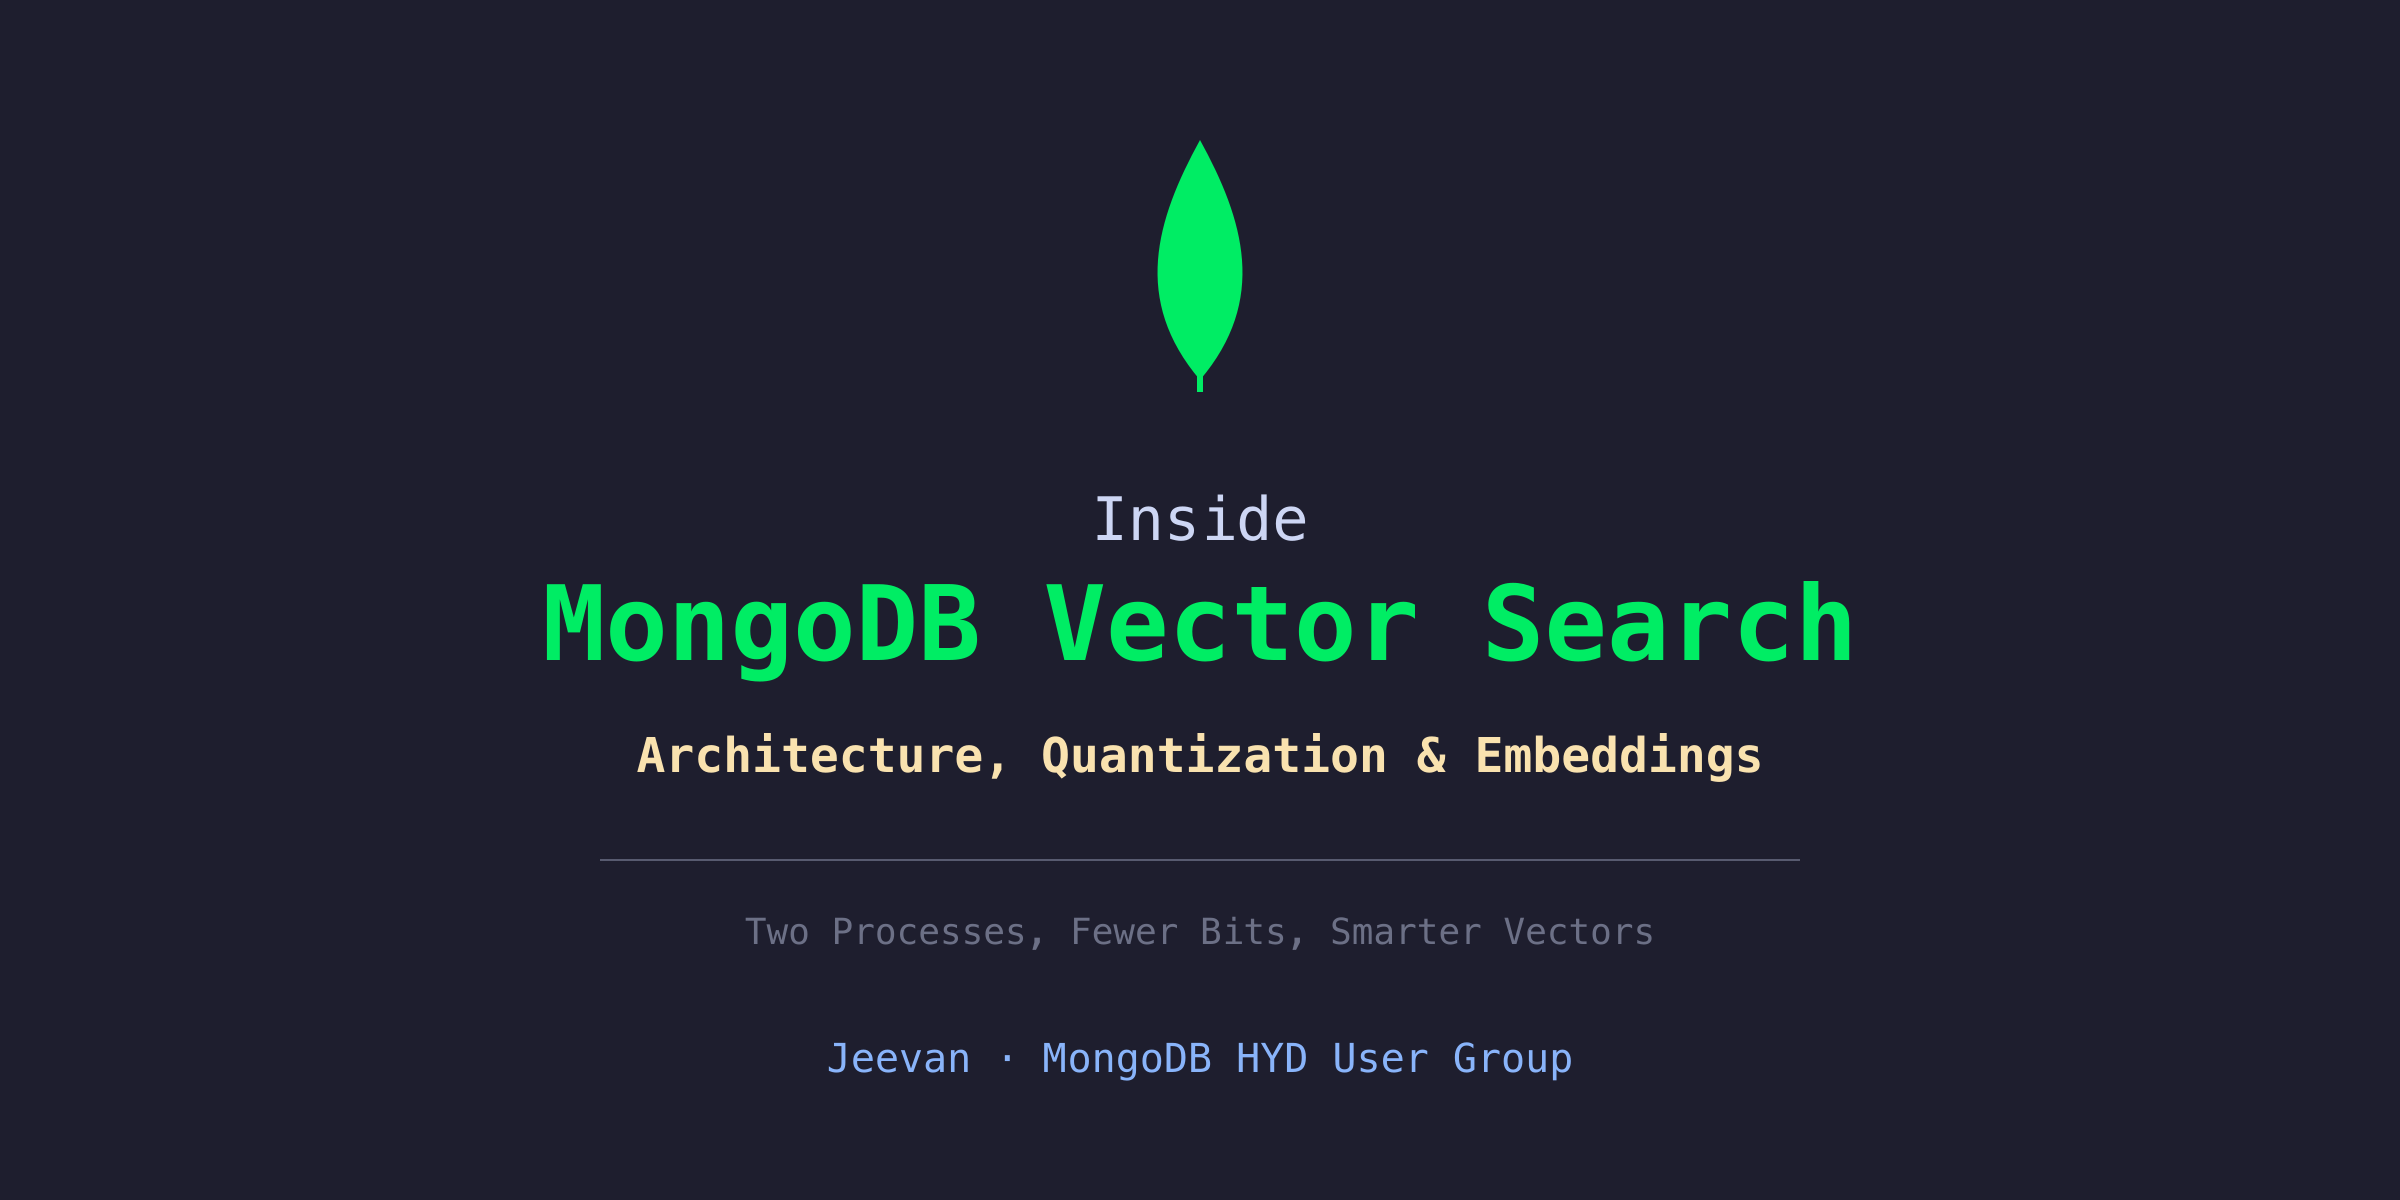
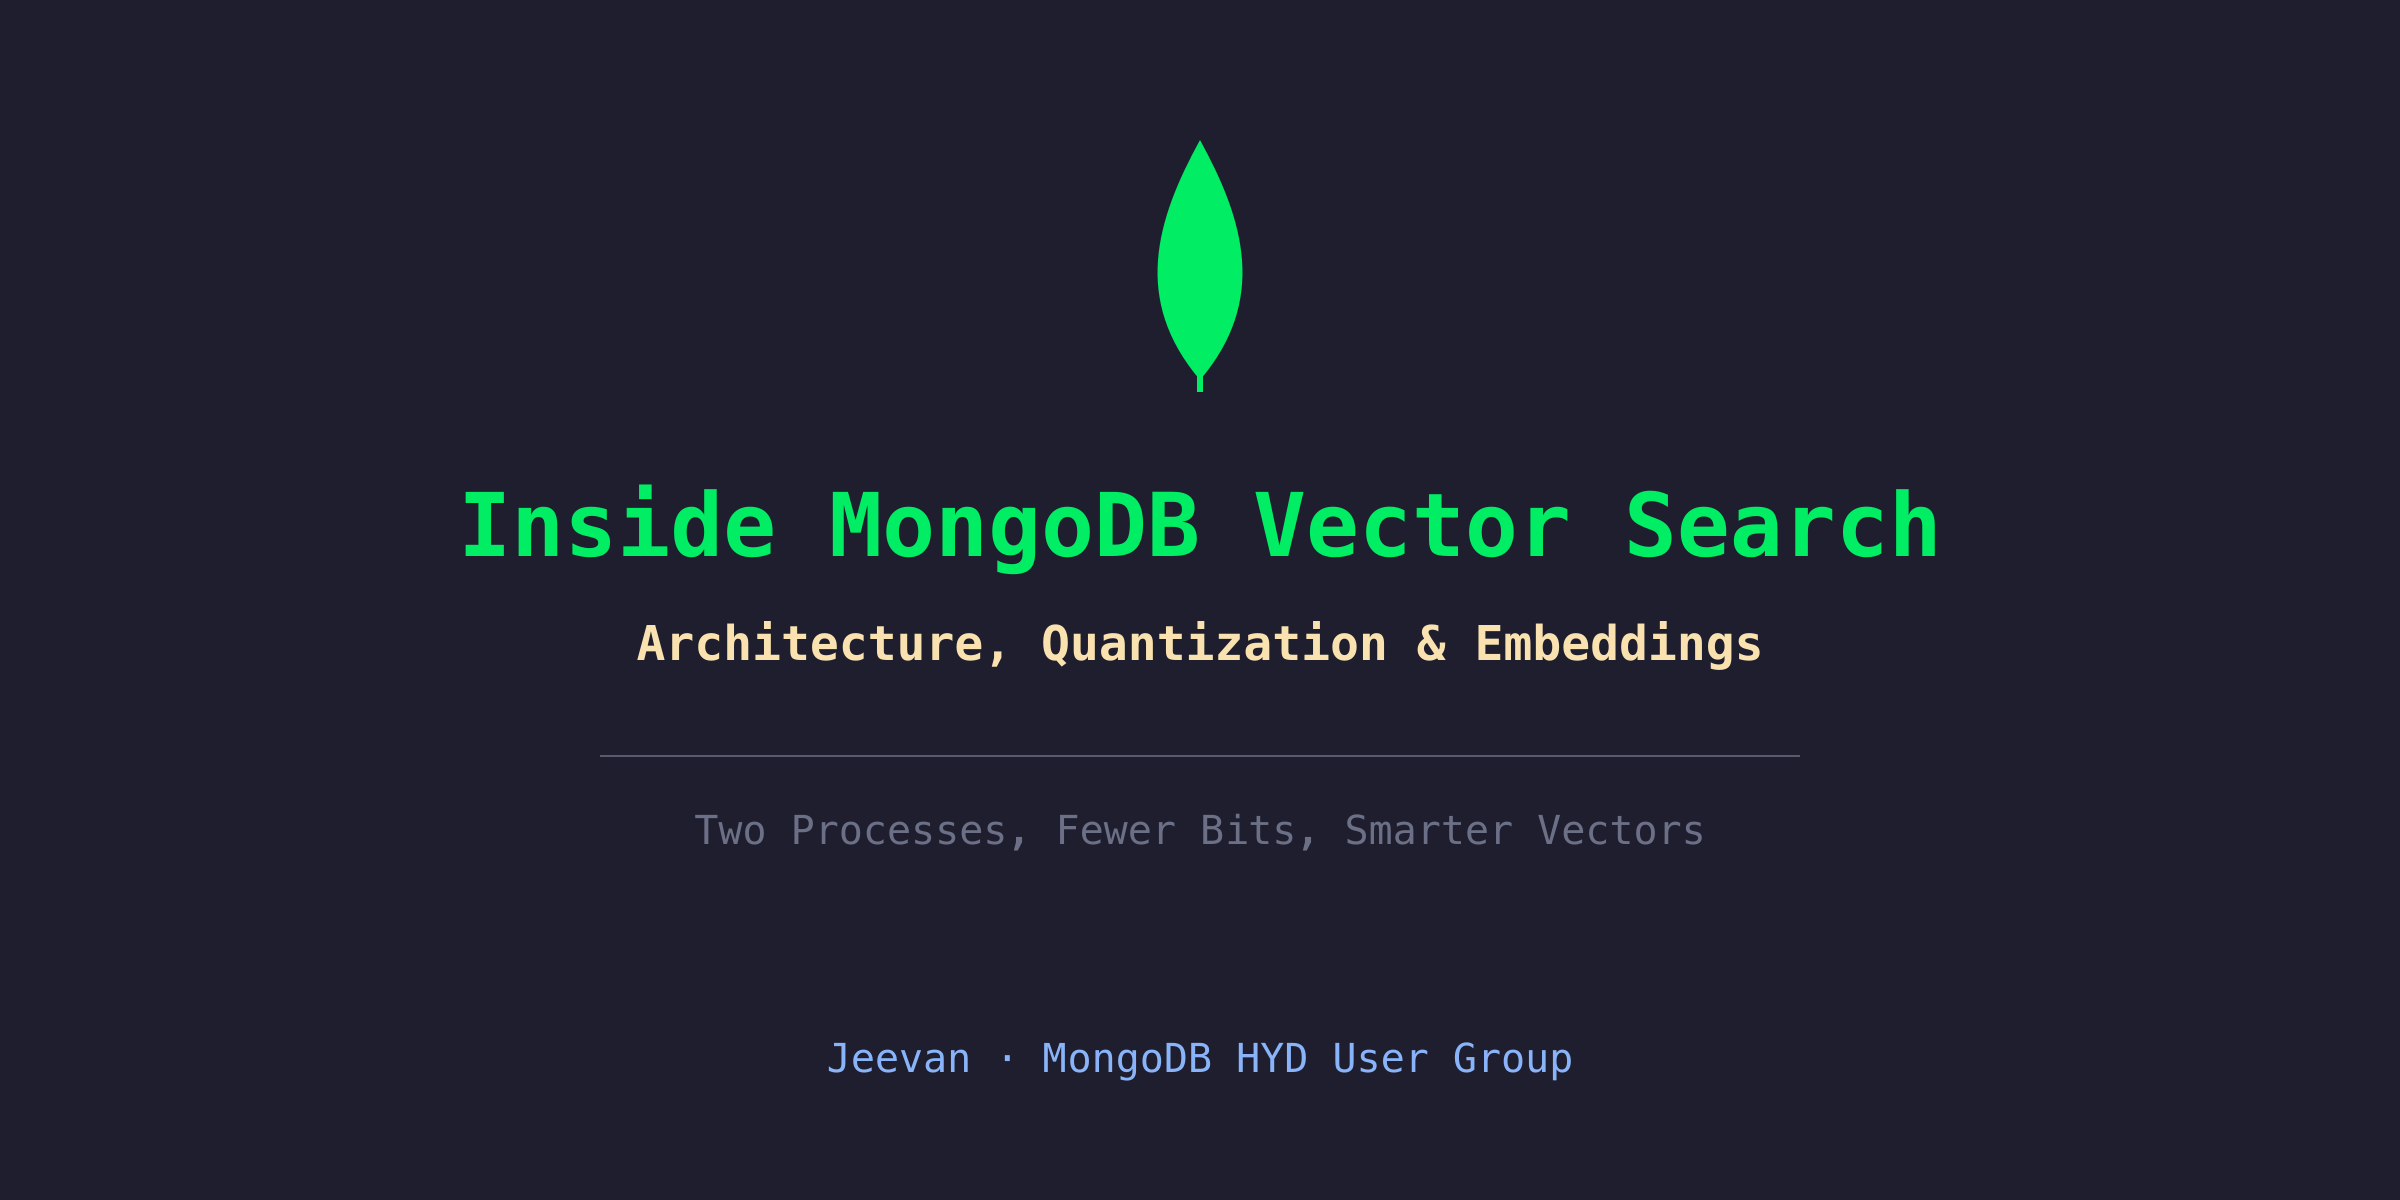
Add GIFs to key slides, fix title, improve column layouts
- Update title slide SVG/PNG: merge "Inside" into main bold title line
  so it reads as one complete title with subtitle below the divider
- Add slide GIFs: Two Engines (center column), Text+Vector (right column),
  Resume Tokens (left column), Architecture Mental Model (full-width),
  Compression slide (stacked in right column with pause for impact→punchline reveal)
- Fix column layouts: GIFs are placed inside column_layout blocks rather
  than as standalone blocks to keep text and images at readable proportions

diff --git a/inside_mongodb_vector_search.md b/inside_mongodb_vector_search.md
@@ -311,7 +311,7 @@ db.docs.aggregate([
 
 <!-- pause -->
 
-<!-- column_layout: [1, 1] -->
+<!-- column_layout: [1, 1, 1] -->
 
 <!-- column: 0 -->
 
@@ -323,6 +323,10 @@ db.docs.aggregate([
 **Memory** · low-latency, steady
 
 <!-- column: 1 -->
+
+![](images/gifs/two-engines-opposite-physics.gif)
+
+<!-- column: 2 -->
 
 <span style="color: #4EC9B0">**Lucene (`mongot`)**</span>
 
@@ -502,6 +506,10 @@ $vectorSearch:{ filter:{tenant:42} }
 
 # Bonus: Text + Vector, One Engine
 
+<!-- column_layout: [2, 1] -->
+
+<!-- column: 0 -->
+
 **Vector search misses exact terms. Keyword search misses meaning.**
 
 ```text
@@ -511,6 +519,12 @@ Query: "error code ERR-4521"
 ├─ BM25    → matches "ERR-4521" exactly              (precise)
 └─ Combined → best of both
 ```
+
+<!-- column: 1 -->
+
+![](images/gifs/text-vector-one-engine.gif)
+
+<!-- reset_layout -->
 
 <!-- pause -->
 
@@ -555,6 +569,14 @@ db.docs.aggregate([
 
 # Surviving a Crash: Resume Tokens
 
+<!-- column_layout: [1, 2] -->
+
+<!-- column: 0 -->
+
+![](images/gifs/resume-tokens.gif)
+
+<!-- column: 1 -->
+
 **What if `mongot` restarts mid-stream?**
 
 <!-- pause -->
@@ -566,6 +588,8 @@ last processed change → resume token
         │
         └─ history gone / lost state → re-sync (full rebuild)
 ```
+
+<!-- reset_layout -->
 
 <!-- pause -->
 
@@ -591,23 +615,7 @@ last processed change → resume token
 
 # Architecture — The Mental Model
 
-<!-- column_layout: [1, 1] -->
-
-<!-- column: 0 -->
-
-**1.** The index doesn't live in the database. It lives in <span style="color: #4EC9B0">`mongot`</span>.
-
-**2.** It syncs by **subscribing to the change stream** — off the write path.
-
-**3.** `mongod` is just the **proxy**. The app never sees the split.
-
-**4.** Slight staleness is the deliberate price for **isolation + independent scaling**.
-
-<!-- column: 1 -->
-
-![image:width:95%](images/mongot-architecture.png)
-
-<!-- reset_layout -->
+![image:width:60%](images/gifs/architecture-mental-model.gif)
 
 <!-- pause -->
 
@@ -663,7 +671,11 @@ one vector:  1024 dims × 4 bytes ≈ 4 KB
 
 <!-- column: 1 -->
 
-![](images/gifs/math-lady.gif)
+![](images/gifs/compression-not-optional-1.gif)
+
+<!-- pause -->
+
+![](images/gifs/compression-not-optional-2.gif)
 
 <!-- reset_layout -->
 
